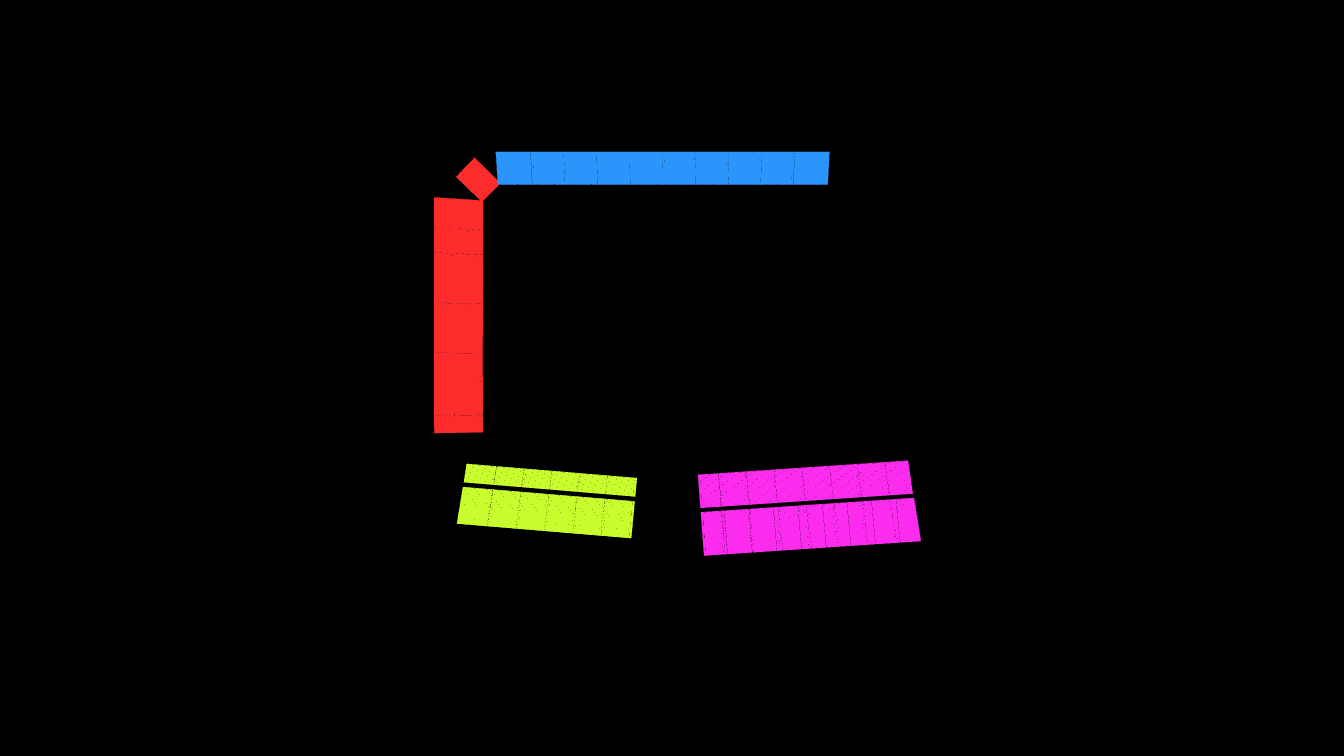
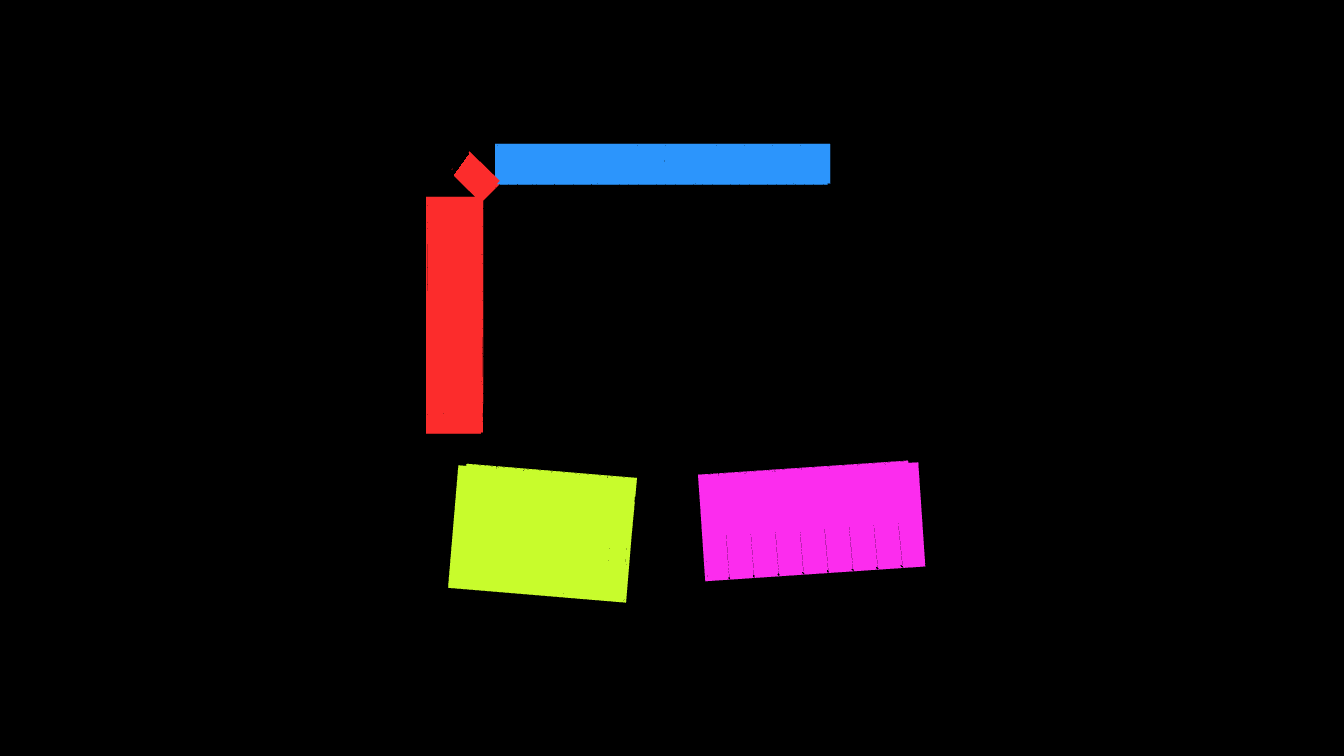
Vista general: cada tribuna se marca entera con su techo; ajustes de celular

diff --git a/assets/estadio.js b/assets/estadio.js
@@ -481,9 +481,14 @@ function construirSegmento(seg) {
     // muro trasero: cierra la tribuna desde el piso hasta la lámina
     caja(piezasConcreto, mf.enMundo(mf.L / 2, d1 + 0.15, t.fondo / 2), new THREE.Vector3(mf.L, t.fondo, 0.3), qSeg);
   }
+  // huella de la tribuna (vista desde arriba): del frente hasta el fondo del techo o del graderío
+  const fondoHuella = seg.techo ? pf.atras + (seg.edificio ? seg.edificio.fondo : 0) : pf.atras;
+  const altoHuella = seg.techo ? seg.techo.fondo + 1.5 : pf.alto + 1.5;
+  huellas.push({ tribuna: seg.tribuna, puntos: [[-0.8, -0.6], [mf.L + 0.8, -0.6], [mf.L + 0.8, fondoHuella + 0.3], [-0.8, fondoHuella + 0.3]].map(([s2, d]) => mf.enMundo(s2, d, altoHuella)) });
   return { mf, pf };
 }
 
+const huellas = [];
 let palcoInfo = null;
 const estado = { sillas: 0, arboles: 0, palcos: 0 };
 SEGMENTOS.forEach(construirSegmento);
@@ -809,7 +814,16 @@ async function guardarMascara(nombre, { nivel = 'tribuna', tribuna = null, w = 1
   });
   const prev = { fondo: escena.background, niebla: escena.fog, tono: renderer.toneMapping, sombras: renderer.shadowMap.enabled };
   cielo.visible = false; escena.background = new THREE.Color(0x000000); escena.fog = null; renderer.toneMapping = THREE.NoToneMapping;
+  // desde arriba, cada tribuna se marca entera (con techo y lo de atrás) con su huella por encima de todo
+  const extras = [];
+  if (nivel === 'tribuna') for (const hu of huellas) {
+    const k = indice.get(hu.tribuna); if (k === undefined) continue;
+    const g = new THREE.BufferGeometry().setFromPoints(hu.puntos); g.setIndex([0, 1, 2, 0, 2, 3]);
+    const m2 = new THREE.Mesh(g, new THREE.MeshBasicMaterial({ color: colorZona(k), side: THREE.DoubleSide }));
+    escena.add(m2); extras.push(m2);
+  }
   const blob = await capturar(w, h);
+  extras.forEach(o => { escena.remove(o); o.geometry.dispose(); o.material.dispose(); });
   guardado.forEach(([o, mat, vis]) => { o.material = mat; o.visible = vis; });
   cielo.visible = true; escena.background = prev.fondo; escena.fog = prev.niebla; renderer.toneMapping = prev.tono;
   const uno = new THREE.Vector3(1, 1, 1);
